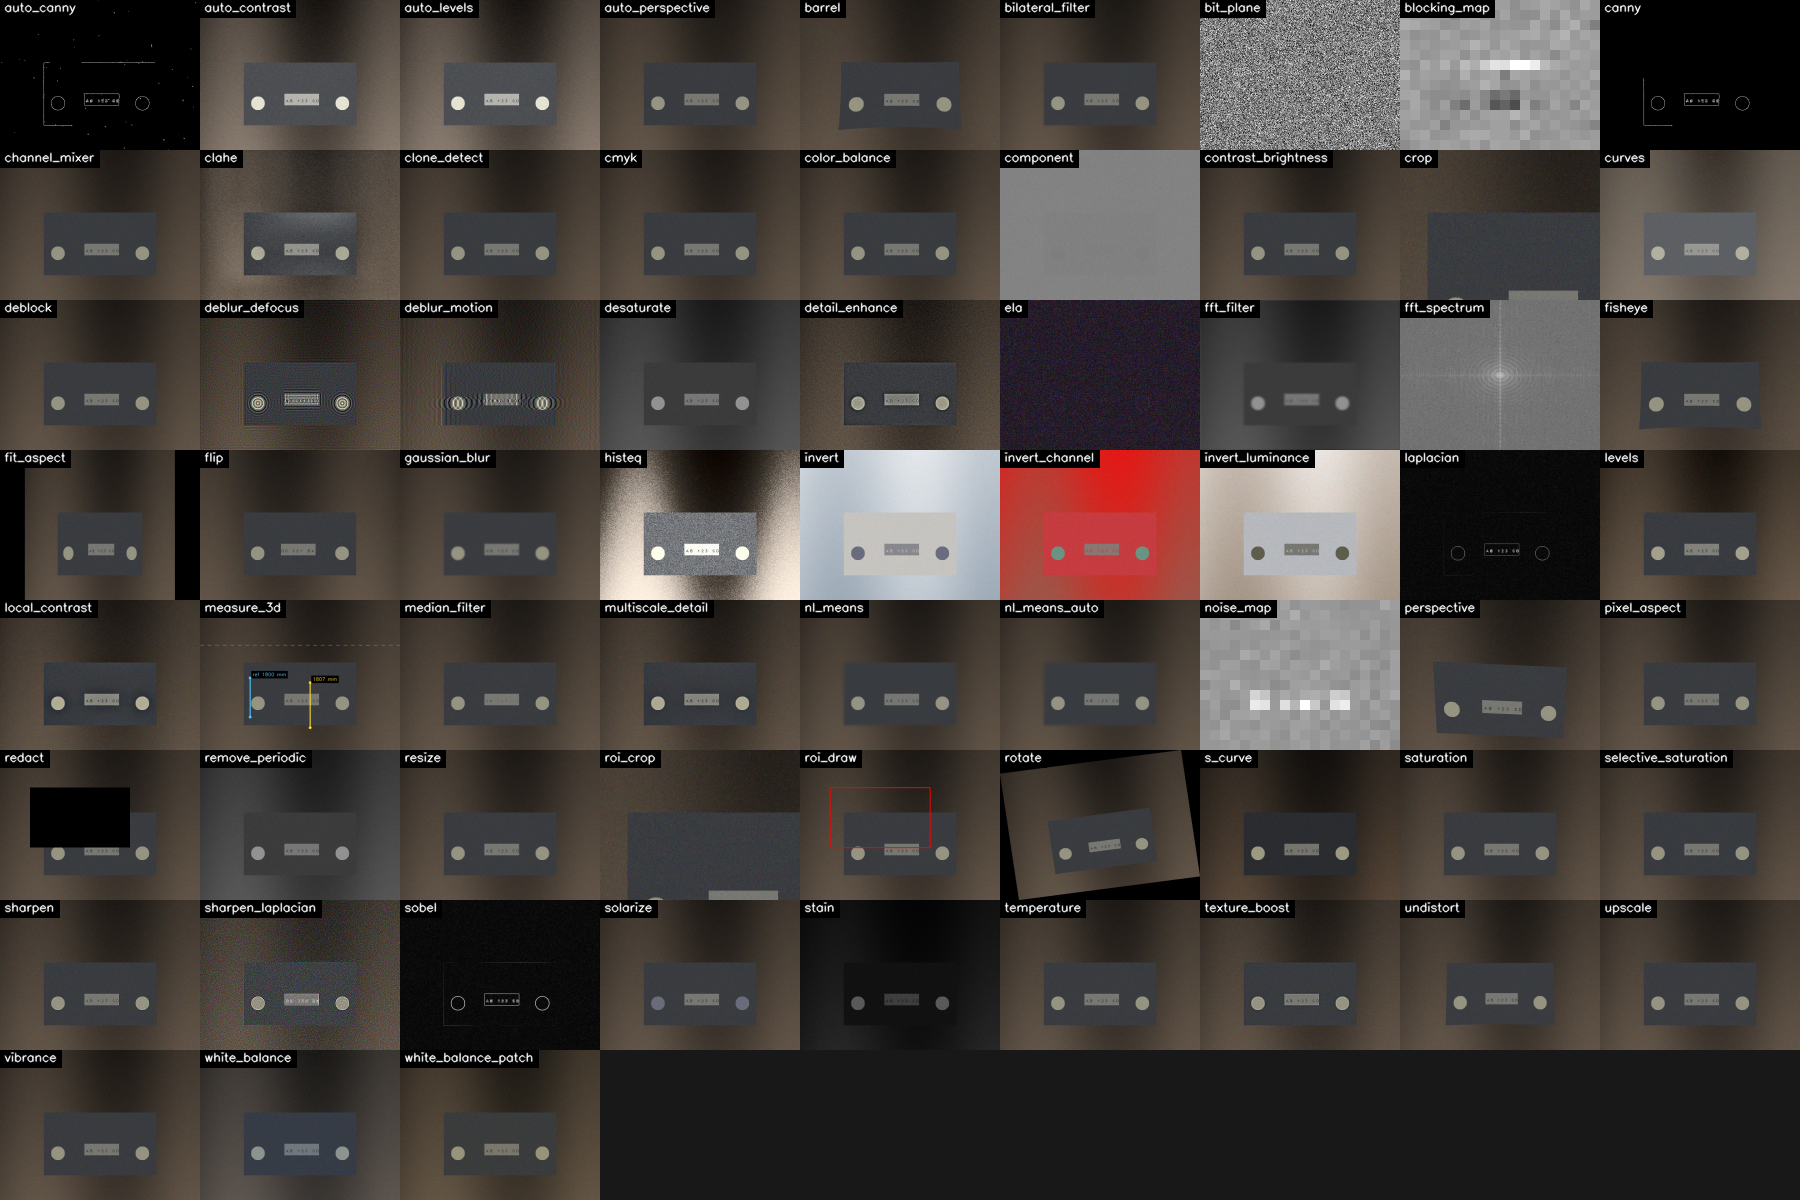
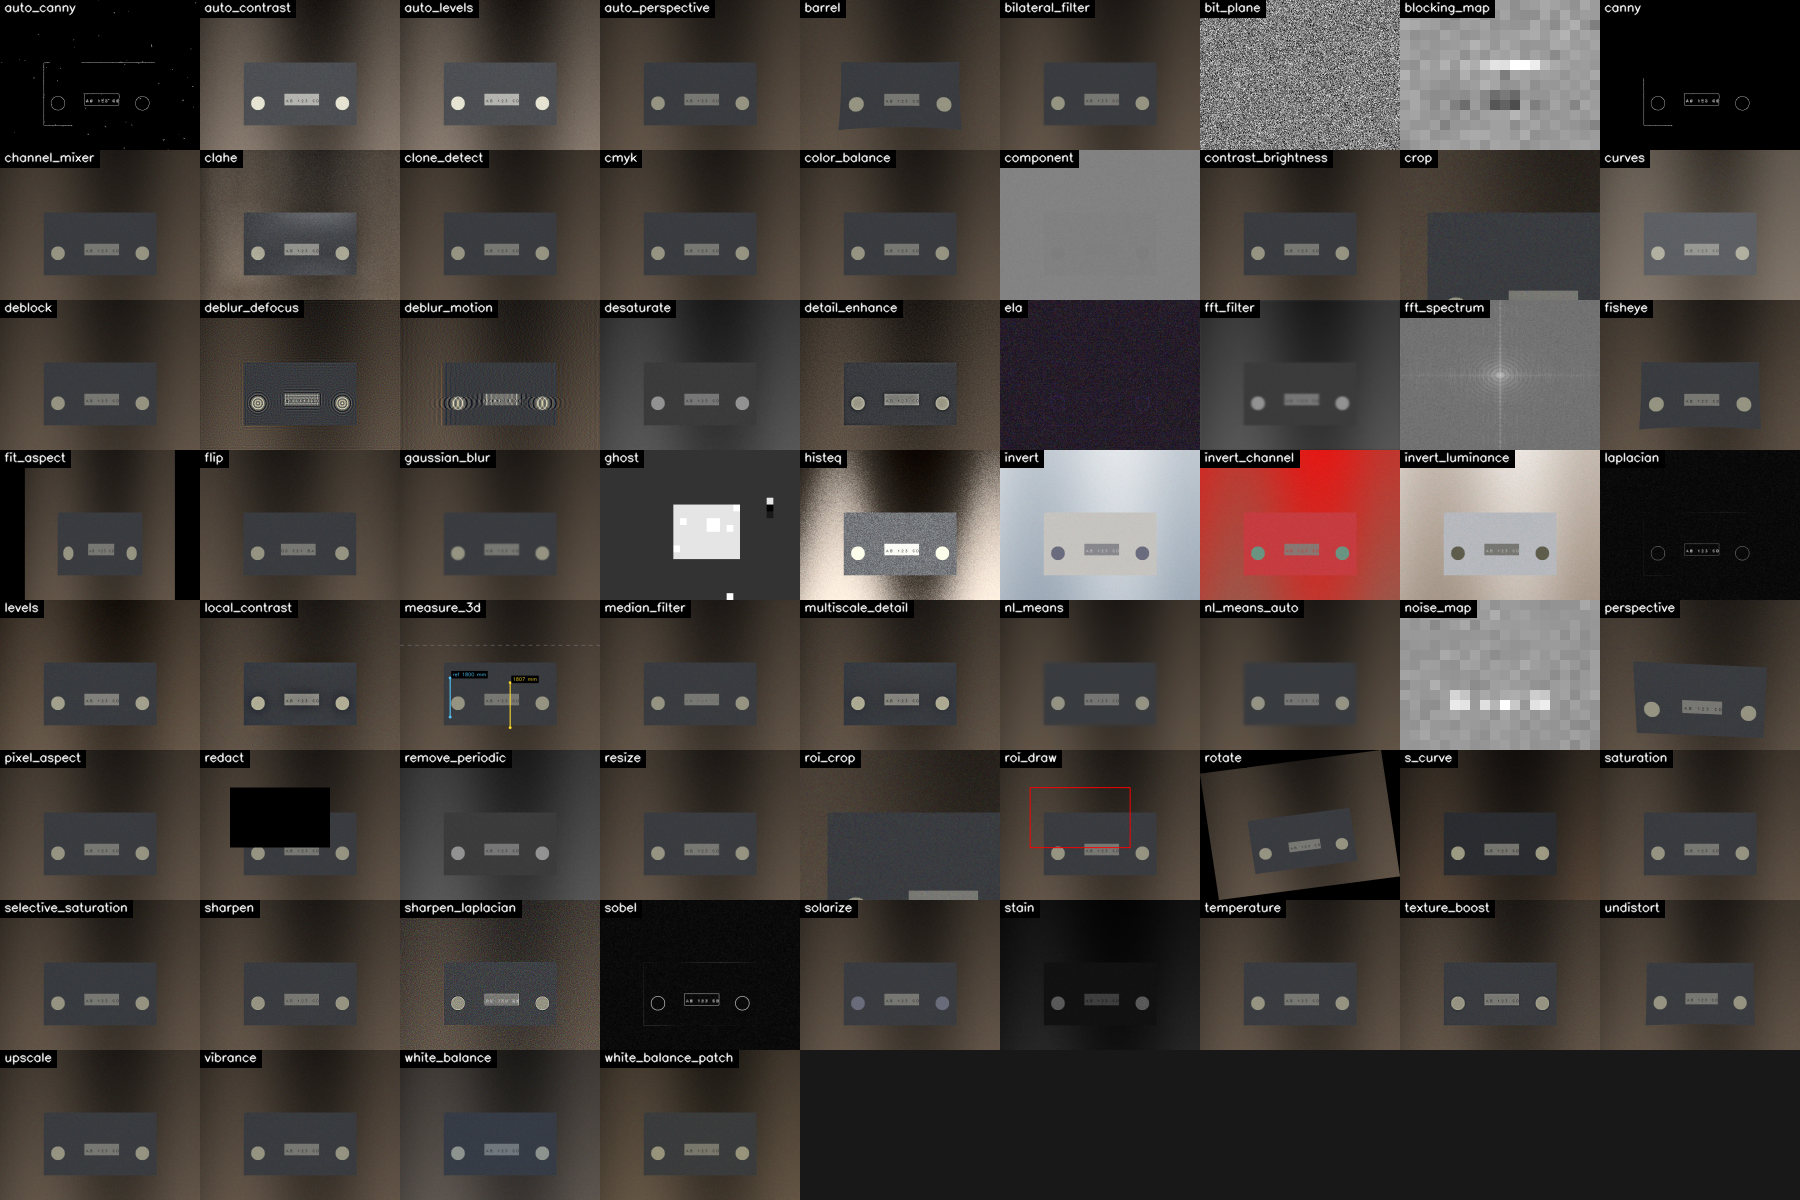
Add JPEG ghost to the filter gallery
The ghost map reads JPEG quantisation history, which the default gallery
sample has none of - every block matched best at the top quality and the
output came out uniformly white. Adds a purpose-built sample (one scene
compressed at quality 60 with a region of itself at 95 pasted over it,
kept as PNG so no unifying resave buries the trace) and a SOURCES table
letting a filter render from its own source, following the precedent of
the JPEG original already generated for ELA.

diff --git a/scripts/filter_gallery.py b/scripts/filter_gallery.py
@@ -14,6 +14,10 @@ Filters needing arguments a signature cannot supply - a region, a set of
 corners, a calibration file - are listed in ARGUMENTS below. Any such filter
 missing from that table is reported as skipped with its reason, rather than
 counted as a failure.
+
+A few filters read a property the default sample does not have, and render
+blank on it however correct they are. Those are listed in SOURCES, which
+overrides the input image for that filter alone.
 """
 
 import argparse
@@ -28,7 +32,8 @@ import cv2
 import numpy as np
 
 # Import from the project root regardless of where this is run from
-sys.path.insert(0, str(Path(__file__).resolve().parent.parent))
+ROOT = Path(__file__).resolve().parent.parent
+sys.path.insert(0, str(ROOT))
 
 from src.core import ImageLoader, save_image                      # noqa: E402
 from src.filters import FILTER_REGISTRY, CameraCalibration        # noqa: E402
@@ -61,6 +66,13 @@ ARGUMENTS: Dict[str, Dict[str, Any]] = {
                    'horizon': 0.30, 'reference_height': 1800.0,
                    '_relative_points': True},
     'undistort': {'calibration_path': None},   # written during the run
+}
+
+# Filters whose output is meaningless on the default sample. `ghost` reads JPEG
+# quantisation history, which a never-compressed PNG simply has none of: every
+# block matches best at the top quality and the map comes out uniformly white.
+SOURCES: Dict[str, str] = {
+    'ghost': 'samples/jpeg_ghost.png',
 }
 
 
@@ -178,11 +190,24 @@ def run(source: Path, output_dir: Path, only: Optional[List[str]] = None,
 
     for name in names:
         spec = FILTER_REGISTRY[name]
-        params = _scale_arguments(name, image.shape)
+
+        source_image = image
+        override = SOURCES.get(name)
+        if override is not None:
+            override_path = ROOT / override
+            if override_path.exists():
+                with ImageLoader(override_path) as loader:
+                    source_image = loader.load()
+            else:
+                failures.append((name, f'needs {override}, run samples/generate_samples.py'))
+                print(f"{name:<24}{'skipped':<10}needs {override_path.name}")
+                continue
+
+        params = _scale_arguments(name, source_image.shape)
 
         start = time.perf_counter()
         try:
-            result = spec.fn(image, **params)
+            result = spec.fn(source_image, **params)
             elapsed = (time.perf_counter() - start) * 1000
 
             save_image(result, output_dir / f'{name}.png')

diff --git a/samples/generate_samples.py b/samples/generate_samples.py
@@ -131,6 +131,36 @@ def _periodic_noise_scene() -> np.ndarray:
     return np.clip(image, 0, 255).astype(np.uint8)
 
 
+def _recompress(image: np.ndarray, quality: int) -> np.ndarray:
+    """Round-trip an RGB image through JPEG at a given quality."""
+    bgr = cv2.cvtColor(image, cv2.COLOR_RGB2BGR)
+    _, buffer = cv2.imencode('.jpg', bgr, [int(cv2.IMWRITE_JPEG_QUALITY), quality])
+    return cv2.cvtColor(cv2.imdecode(buffer, cv2.IMREAD_COLOR), cv2.COLOR_BGR2RGB)
+
+
+def _jpeg_ghost_scene() -> np.ndarray:
+    """
+    One scene whose centre region carries a different JPEG history.
+
+    The whole frame is compressed at quality 60, then a region of the *same*
+    scene compressed at 95 is pasted over it. The result looks like a single
+    coherent photograph - the splice is invisible to the eye - but the pasted
+    block's error curve dips at a different quality than its surroundings.
+
+    Saved as PNG deliberately: a further full-frame JPEG save would give every
+    block one shared last quality and bury the trace, which is the technique's
+    documented blind spot.
+    """
+    scene = _textured_scene()
+    low = _recompress(scene, 60)
+    high = _recompress(scene, 95)
+
+    composite = low.copy()
+    # Block-aligned so the region lands on whole analysis blocks
+    composite[128:256, 176:336] = high[128:256, 176:336]
+    return composite
+
+
 def _write_sequence(path: Path, frames: int = 24) -> None:
     """
     Write a short AVI of a static noisy scene with one object crossing it.
@@ -170,6 +200,7 @@ def generate_all(output_dir: Path = SAMPLES_DIR) -> list:
         'color_chart.png': _color_chart(),
         'cloned_region.png': _cloned_scene(),
         'periodic_noise.png': _periodic_noise_scene(),
+        'jpeg_ghost.png': _jpeg_ghost_scene(),
     }
 
     written = []

diff --git a/README.md b/README.md
@@ -90,7 +90,8 @@ python samples/generate_samples.py
 
 This writes a dark CCTV-style plate scene, a low-contrast grey chart, a colour chart, a
 forged image containing a copy-pasted region, an image with periodic interference, a JPEG
-original for ELA, and a 24-frame video of a static scene with one moving object.
+original for ELA, a composite whose centre region carries a different JPEG quality (for
+ghost detection), and a 24-frame video of a static scene with one moving object.
 
 ## CLI Usage
 
@@ -489,7 +490,7 @@ The GUI tests skip automatically where Tkinter has no display.
 
 ## Trying every filter
 
-The tests prove the filters are correct; this shows what they look like. It runs all 66
+The tests prove the filters are correct; this shows what they look like. It runs all 67
 with their default parameters, writes one PNG each, and tiles them into a labelled contact
 sheet.
 
@@ -500,6 +501,10 @@ python scripts/filter_gallery.py --only clahe,sharpen,curves
 ```
 
 Exit status is non-zero if any filter fails, so it doubles as a smoke test.
+
+A filter that reads a property the default sample lacks renders from its own source
+instead, listed in the script's `SOURCES` table — `ghost` needs an image with real JPEG
+history, and comes out uniformly white on a never-compressed PNG.
 
 ## Project Structure
 
